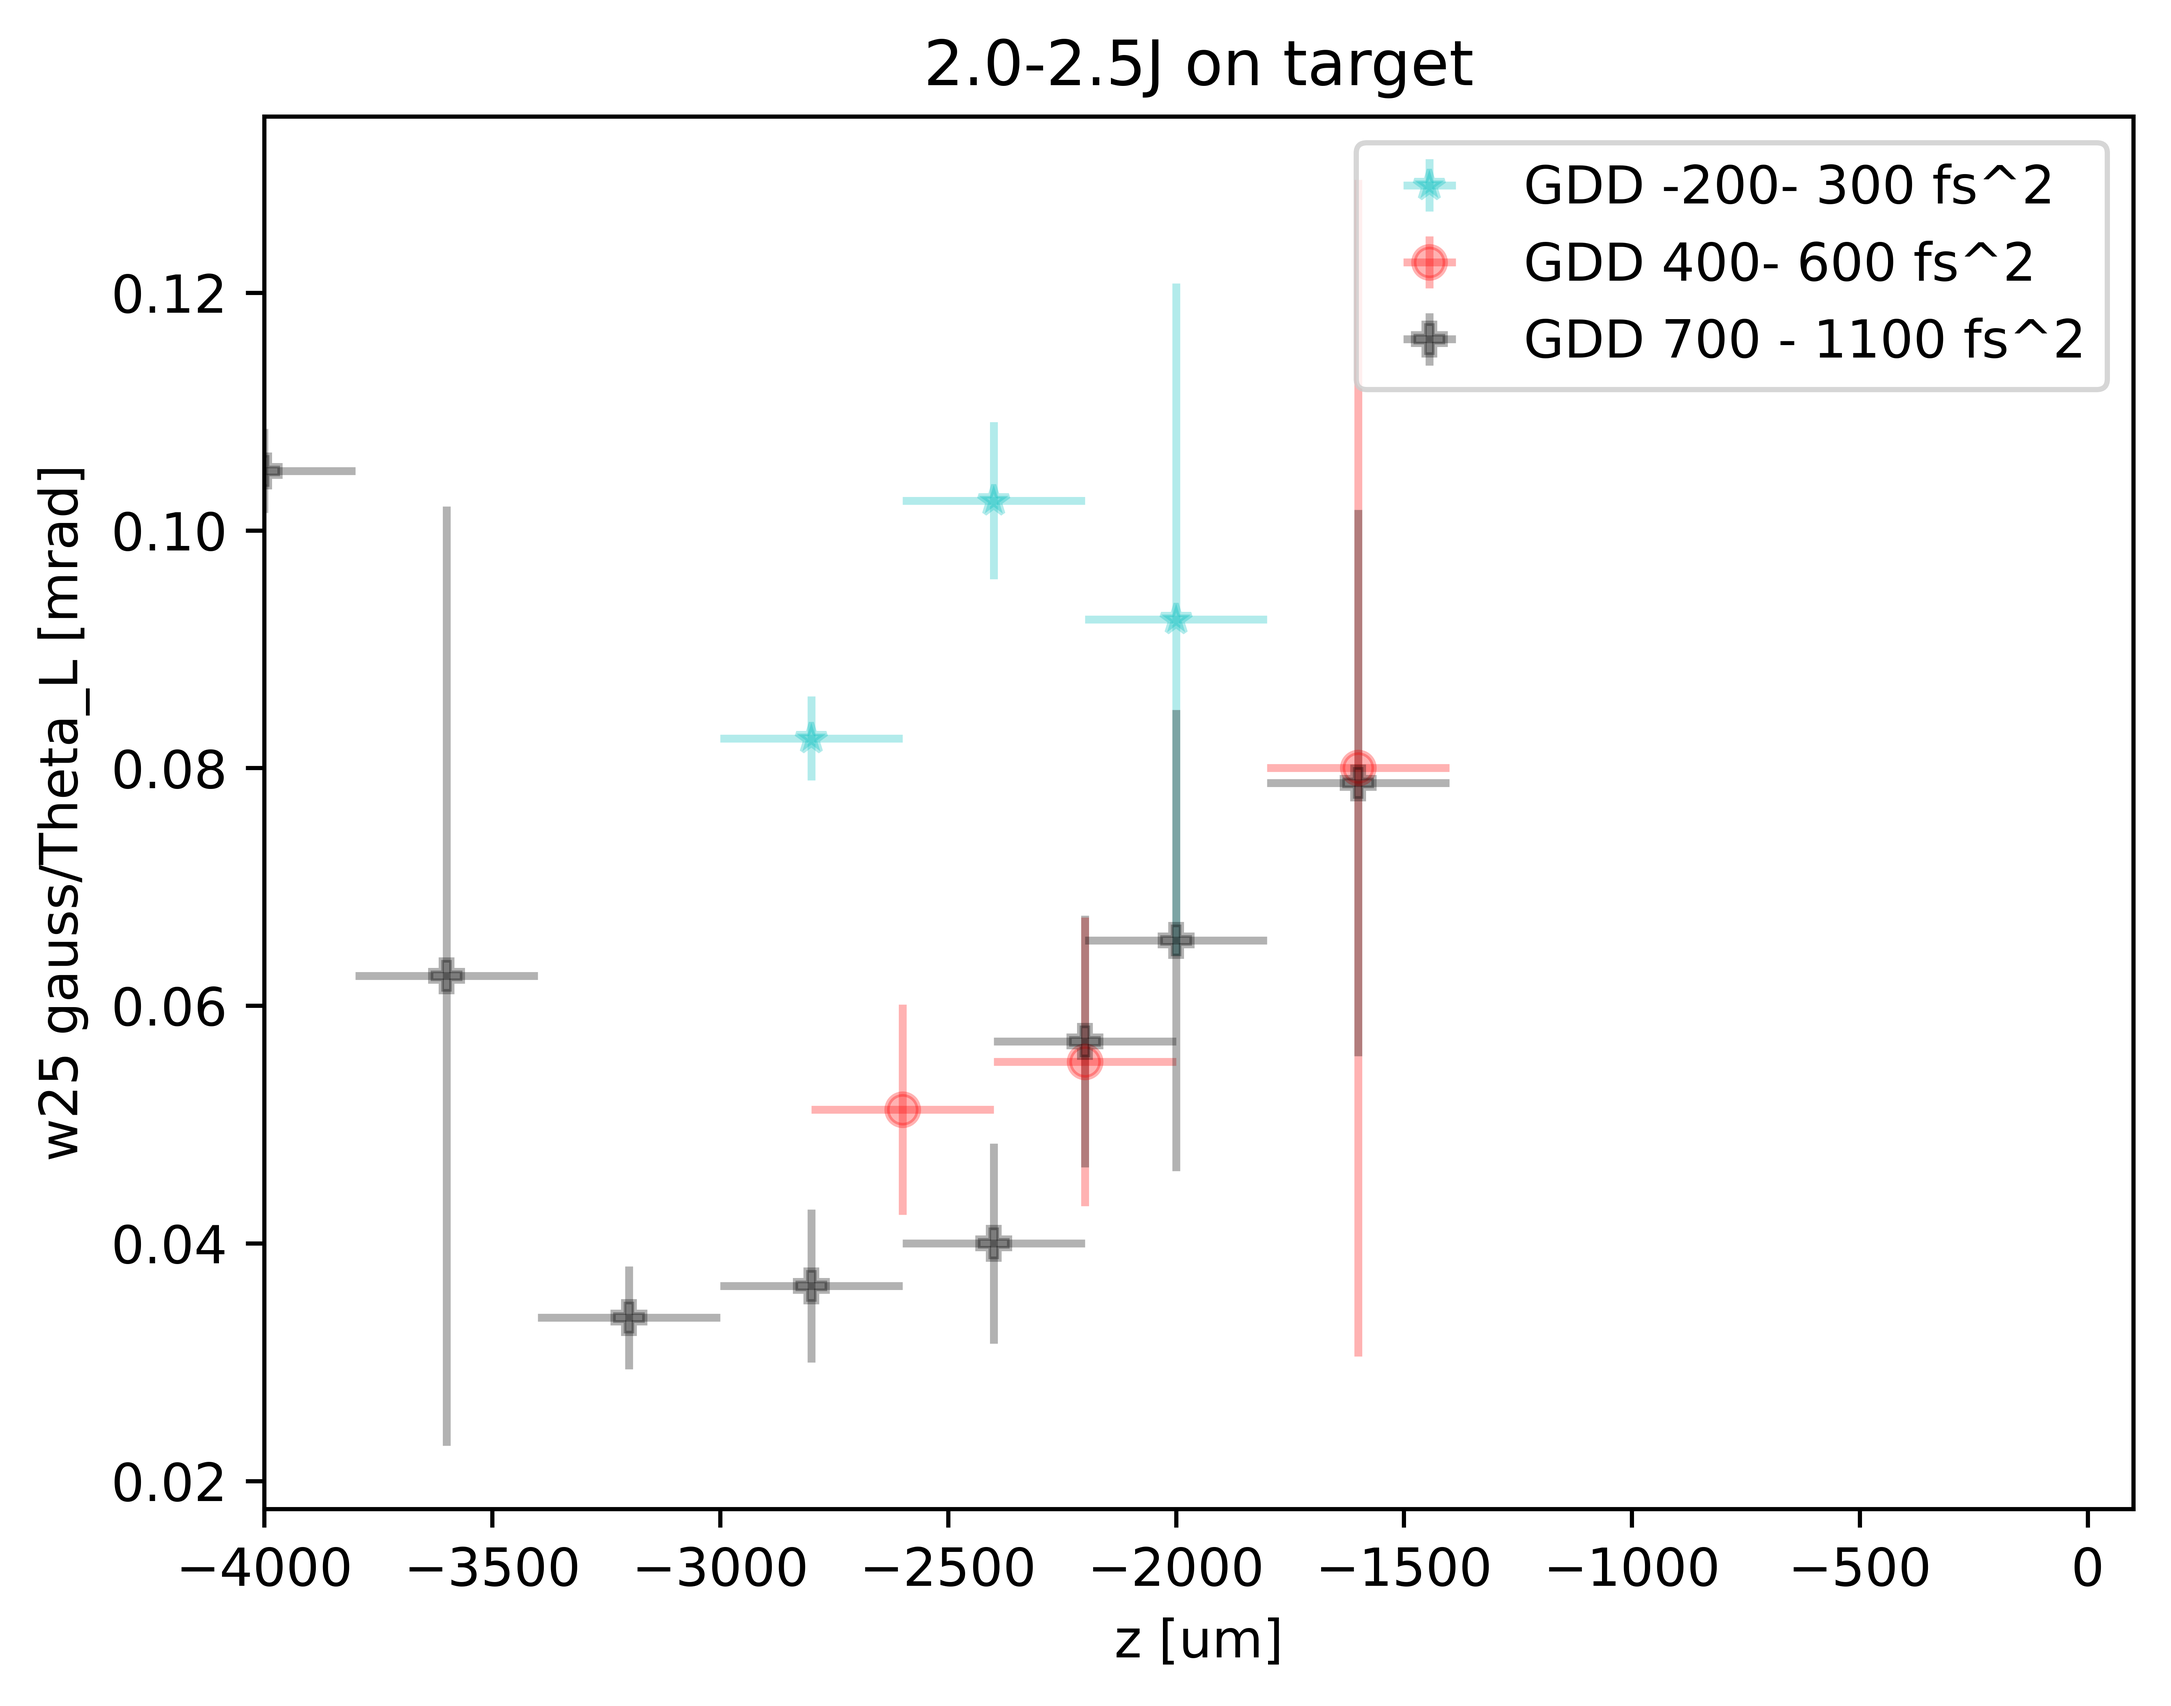
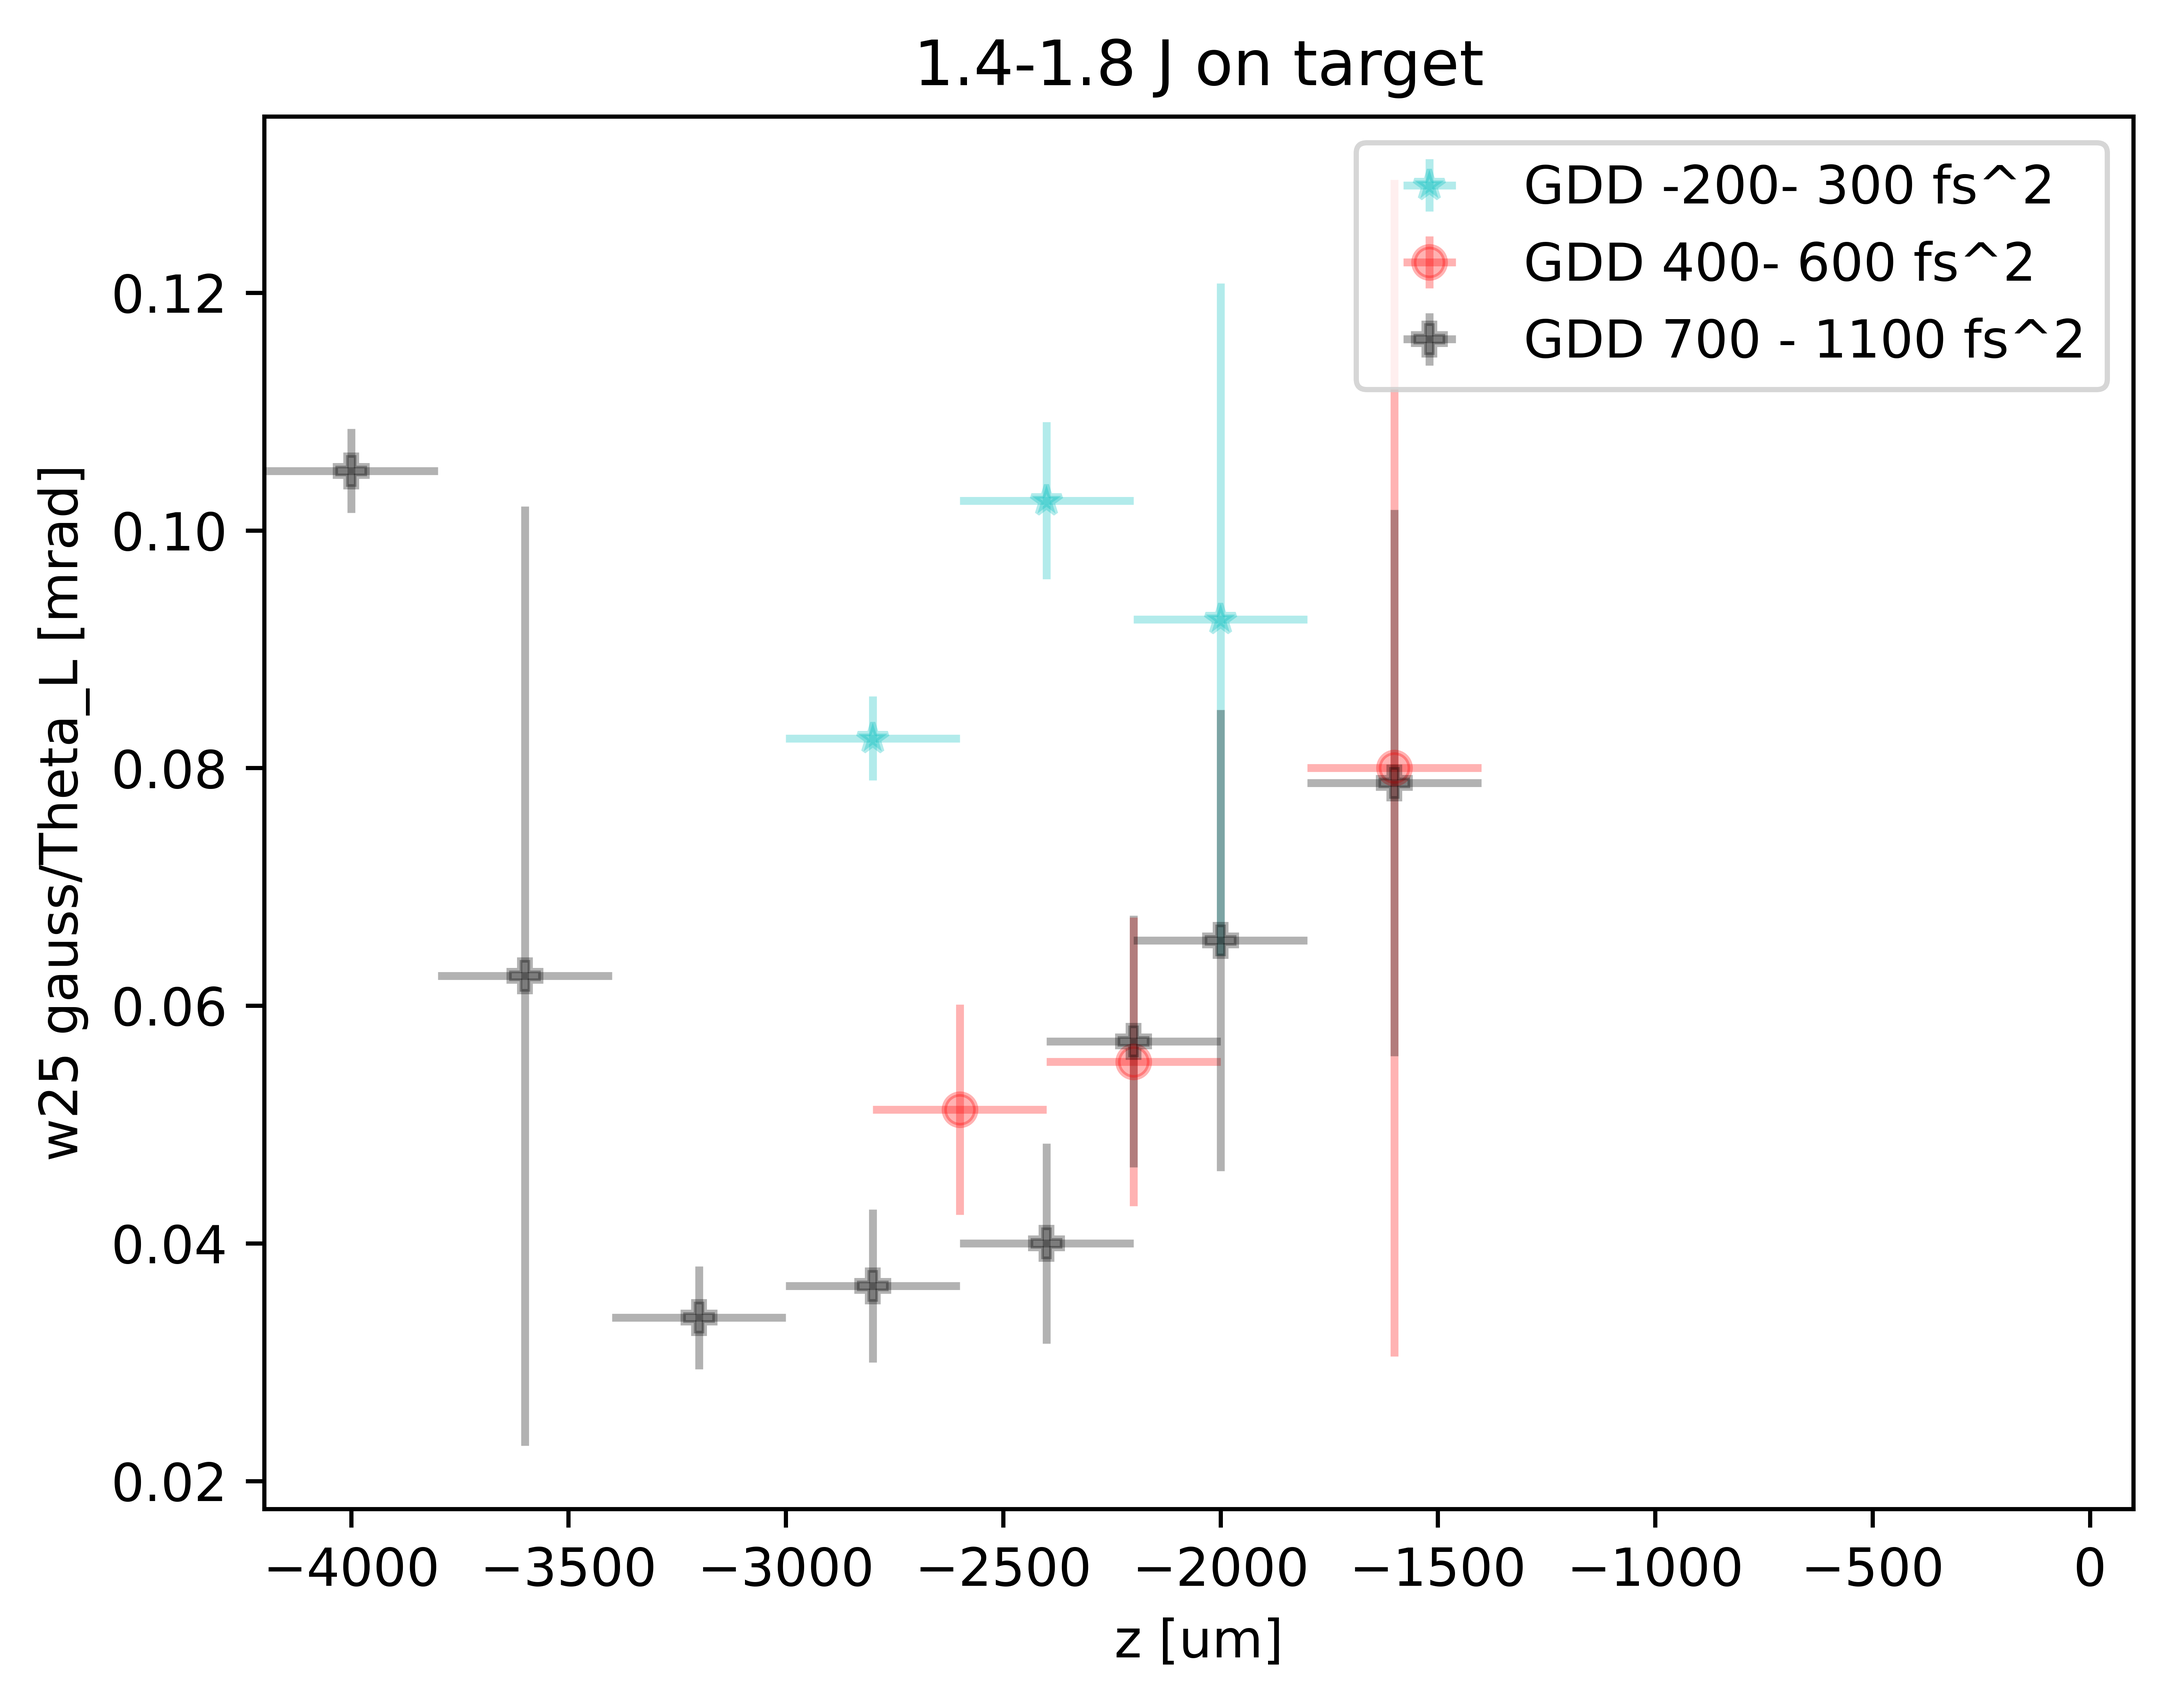
updating with different laser on target energy ranges

diff --git a/Paper_N25_div_Gauss_limited_E_range.py b/Paper_N25_div_Gauss_limited_E_range.py
@@ -331,9 +331,11 @@ my_sorted_data = discriminate_parameters(RESULT, "PP in out", -1)
 my_sorted_data.black_white_discrimination()
 #my_sorted_data.switch_param_and_condition('day', 20190117)
 #my_sorted_data.black_white_discrimination_exclusion()
-my_sorted_data.switch_param_and_condition('EL on target', 1.98)
+E1=1.98
+E2=2.52
+my_sorted_data.switch_param_and_condition('EL on target', E1)
 my_sorted_data.high_pass()
-my_sorted_data.switch_param_and_condition('EL on target', 2.51)
+my_sorted_data.switch_param_and_condition('EL on target', E2)
 my_sorted_data.low_pass()
 # for statistics: here filtered results:
 PP_out_energy_range = my_sorted_data.return_df()
@@ -438,8 +440,8 @@ plot_together_in_one_graph("black", "GDD 700 - 1100 fs^2", mean_x, mean_y, "z [u
 
 
 #plt.xscale('log')
-plt.xlim(-4000,100)
-plt.title("2.0-2.5J on target")
+plt.xlim(-4200,100)
+plt.title(str(np.round(E1*0.7,1))+ "-"+ str(np.round(E2*0.7,1))+" J on target")
 #plt.ylim(0.5, 20)
 save_picture('div25_gauss_EL2-2.5_marker')
 plt.show()
